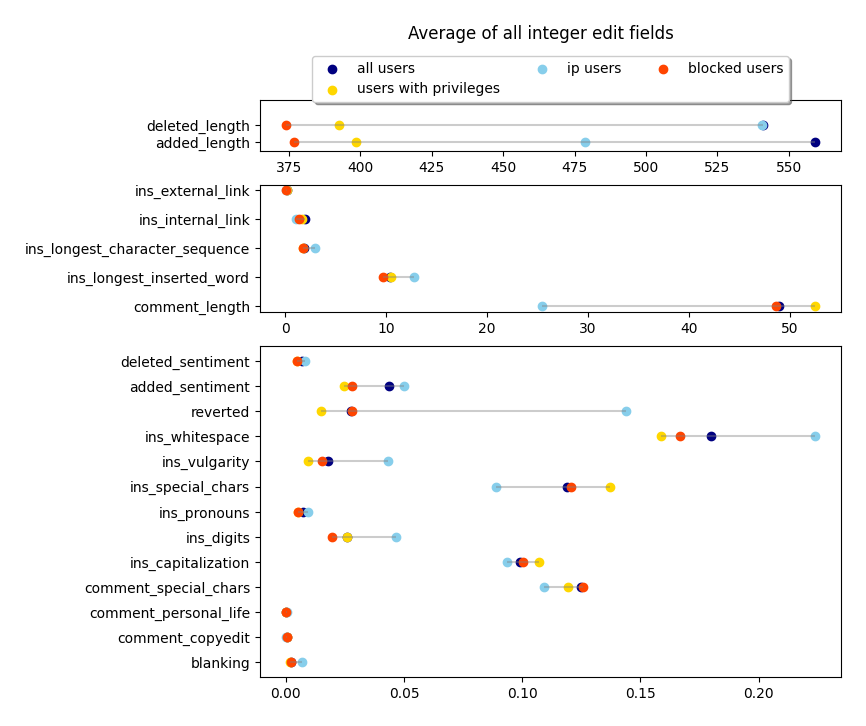
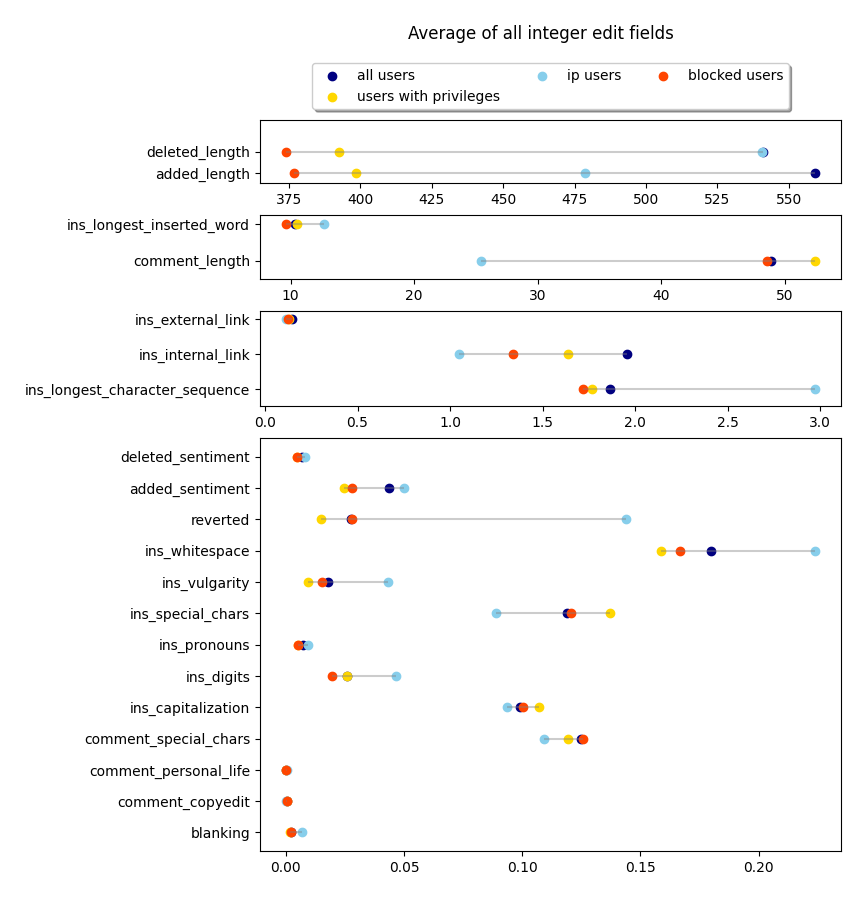
update plot to have more sections

diff --git a/nsdb/plot.py b/nsdb/plot.py
@@ -988,23 +988,26 @@ def profanityAll(cursor, i, plotDir, dataDir, dryrun):
     plt.figure()
 
     data = []
+    std = []
 
-    specialUsers = """select avg(edit.ins_vulgarity)
+    specialUsers = """select avg(edit.ins_vulgarity), std(edit.ins_vulgarity)
     from edit join user
     on edit.user_table_id = user.id
     where user.blocked is null and user.bot is null and confirmed is true;"""
     if not dryrun:
         cursor.execute(specialUsers,)
         specialUsersData = cursor.fetchall()
+        specialUsersStd = specialUsersData[0][1]
         specialUsersData = specialUsersData[0][0]
         with open(dataDir + str(i) + "-specialUsers.txt", "w") as file:
-            file.write(str(specialUsersData))
+            file.write(str(specialUsersData) + "\n" + str(specialUsersStd))
     else:
-        specialUsersData = 0.0187
+        specialUsersData = 0.0109
 
     data.append(("users with\nspecial priviliges", specialUsersData))
+    std.append(specialUsersStd)
 
-    users = """select avg(edit.ins_vulgarity)
+    users = """select avg(edit.ins_vulgarity), std(edit.ins_vulgarity)
     from edit
     join user
     on edit.user_table_id = user.id
@@ -1012,15 +1015,17 @@ def profanityAll(cursor, i, plotDir, dataDir, dryrun):
     if not dryrun:
         cursor.execute(users,)
         userData = cursor.fetchall()
+        userStd = userData[0][1]
         userData = userData[0][0]
         with open(dataDir + str(i) + "-user.txt", "w") as file:
-            file.write(str(userData))
+            file.write(str(userData) + "\n" + str(userStd))
     else:
-        userData = 0.0187
+        userData = 0.0123
 
     data.append(("users", userData))
+    std.append(userData)
 
-    blocked = """select avg(edit.ins_vulgarity)
+    blocked = """select avg(edit.ins_vulgarity), std(edit.ins_vulgarity)
     from edit
     join user
     on edit.user_table_id = user.id
@@ -1028,15 +1033,17 @@ def profanityAll(cursor, i, plotDir, dataDir, dryrun):
     if not dryrun:
         cursor.execute(blocked,)
         blockedData = cursor.fetchall()
+        blockedStd = blockedData[0][1]
         blockedData = blockedData[0][0]
         with open(dataDir + str(i) + "-blocked.txt", "w") as file:
-            file.write(str(blockedData))
+            file.write(str(blockedData) + "\n" + str(blockedStd))
     else:
-        blockedData = 0.0209
+        blockedData = 0.0153
 
     data.append(("blocked", blockedData))
+    std.append(blockedData)
 
-    bots = """select avg(edit.ins_vulgarity)
+    bots = """select avg(edit.ins_vulgarity), std(edit.ins_vulgarity)
     from edit
     join user
     on edit.user_table_id = user.id
@@ -1044,15 +1051,17 @@ def profanityAll(cursor, i, plotDir, dataDir, dryrun):
     if not dryrun:
         cursor.execute(bots,)
         botsData = cursor.fetchall()
+        botsStd = botsData[0][1]
         botsData = botsData[0][0]
         with open(dataDir + str(i) + "-bot.txt", "w") as file:
-            file.write(str(botsData))
+            file.write(str(botsData) + "\n" + str(botsStd))
     else:
-        botsData = 0.0108
+        botsData = 0.0080
 
     data.append(("bots", botsData))
+    std.append(botsData)
 
-    ipAddress = """select avg(edit.ins_vulgarity)
+    ipAddress = """select avg(edit.ins_vulgarity), std(edit.ins_vulgarity)
     from edit
     join user
     on edit.user_table_id = user.id
@@ -1060,17 +1069,19 @@ def profanityAll(cursor, i, plotDir, dataDir, dryrun):
     if not dryrun:
         cursor.execute(ipAddress,)
         ipAddressData = cursor.fetchall()
+        ipAddressStd = ipAddressData[0][1]
         ipAddressData = ipAddressData[0][0]
         with open(dataDir + str(i) + "-ipAddress.txt", "w") as file:
-            file.write(str(ipAddressData))
+            file.write(str(ipAddressData) + "\n" + str(ipAddressStd))
     else:
-        ipAddressData = 0.0418
+        ipAddressData = 0.0434
 
     data.append(("ip", ipAddressData))
+    std.append(ipAddressData)
 
     plt.title("Average profanity per type of user")
     plt.ylabel("Average profanity / %")
-    plt.bar(*zip(*data))
+    plt.bar(*zip(*data), yerr=std)
     plt.savefig(figname, bbox_inches="tight", pad_inches=0.25)
 
 
@@ -1596,7 +1607,7 @@ def averageAllSpecial(cursor, i, plotDir, dataDir, dryrun):
             0.00475190706470203,
         ]
 
-    fig, axs = plt.subplots(3, 1, gridspec_kw={"height_ratios": [2, 5, 13]})
+    fig, axs = plt.subplots(4, 1, gridspec_kw={"height_ratios": [2, 2, 3,13]})
 
     fig.suptitle("Average of all integer edit fields")
 
@@ -1635,7 +1646,7 @@ def averageAllSpecial(cursor, i, plotDir, dataDir, dryrun):
     axs[0].set_ylim([start - 0.5, end + 0.5])
 
     start = 3
-    end = 8
+    end = 5
     plotRange = range(1, end - start + 1)
     axs[1].hlines(
         y=plotRange,
@@ -1670,11 +1681,45 @@ def averageAllSpecial(cursor, i, plotDir, dataDir, dryrun):
     )
     axs[1].set_yticklabels(columns[start:end])
     axs[1].set_yticks(plotRange)
+    axs[1].set_ylim([0.5, 2.25])
+
+    start = 5
+    end = 8
+    plotRange = range(1, end - start + 1)
+    axs[2].hlines(
+        y=plotRange,
+        xmin=[
+            min(a, b, c, d)
+            for a, b, c, d in zip(
+                data[start:end], specialData[start:end], blockedData[start:end], ipData[start:end]
+            )
+        ],
+        xmax=[
+            max(a, b, c, d)
+            for a, b, c, d in zip(
+                data[start:end], specialData[start:end], blockedData[start:end], ipData[start:end]
+            )
+        ],
+        color="grey",
+        alpha=0.4,
+    )
+    axs[2].scatter(data[start:end], plotRange, color="navy", label="all users")
+    axs[2].scatter(
+        specialData[start:end], plotRange, color="gold", label="users with privileges"
+    )
+    axs[2].scatter(ipData[start:end], plotRange, color="skyblue", label="ip users")
+    axs[2].scatter(
+        blockedData[start:end], plotRange, color="orangered", label="blocked users"
+    )
+    axs[2].set_yticklabels(columns[start:end])
+    axs[2].set_yticks(plotRange)
+    print(axs[1].get_ylim())
+    axs[2].set_ylim([0.5,  3.25])
 
     start = 8
     end = 21
     plotRange = range(1, end - start + 1)
-    axs[2].hlines(
+    axs[3].hlines(
         y=plotRange,
         xmin=[
             min(a, b, c, d)
@@ -1691,18 +1736,19 @@ def averageAllSpecial(cursor, i, plotDir, dataDir, dryrun):
         color="grey",
         alpha=0.4,
     )
-    axs[2].scatter(data[start:], plotRange, color="navy", label="all users")
-    axs[2].scatter(
+    axs[3].scatter(data[start:], plotRange, color="navy", label="all users")
+    axs[3].scatter(
         specialData[start:], plotRange, color="gold", label="users with privileges"
     )
-    axs[2].scatter(ipData[start:], plotRange, color="skyblue", label="ip users")
-    axs[2].scatter(
+    axs[3].scatter(ipData[start:], plotRange, color="skyblue", label="ip users")
+    axs[3].scatter(
         blockedData[start:], plotRange, color="orangered", label="blocked users"
     )
-    axs[2].set_yticklabels(columns[start:])
-    axs[2].set_yticks(plotRange)
+    axs[3].set_yticklabels(columns[start:])
+    axs[3].set_yticks(plotRange)
+    print(plotRange)
 
-    plt.gcf().set_size_inches(7.5, 7.5)
+    plt.gcf().set_size_inches(7.5, 9.5)
 
     plt.savefig(figname, bbox_inches="tight", pad_inches=0.25)
 
